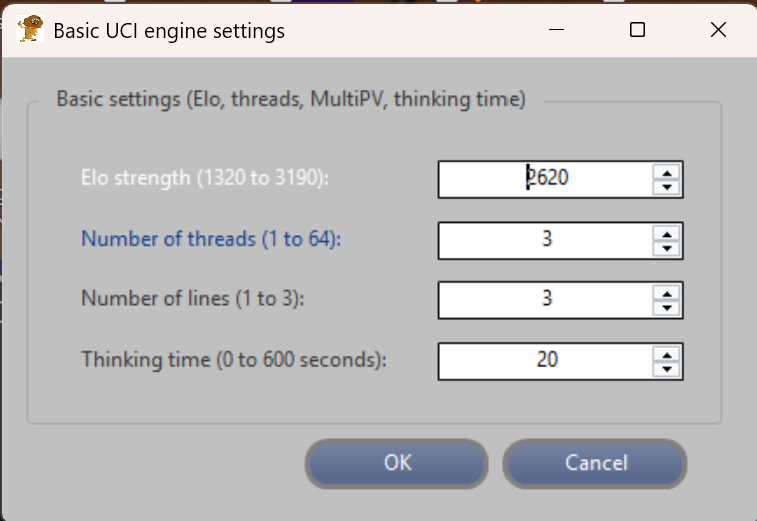
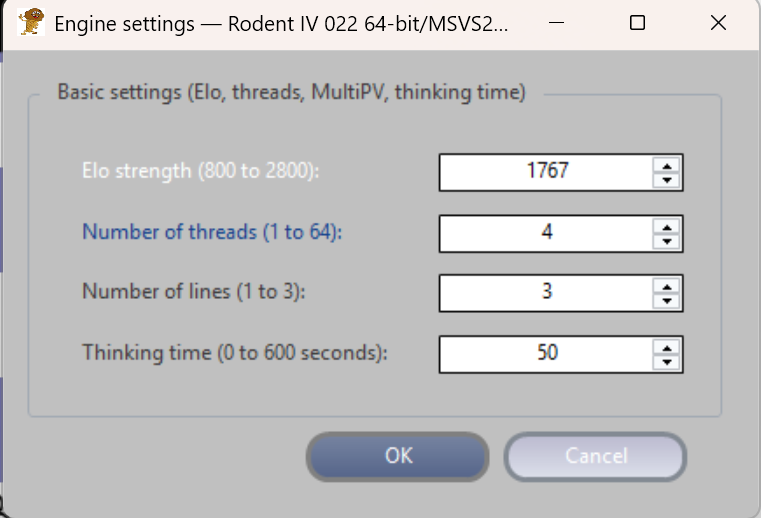
Aide anglaise : captures avec les nouveaux menus (fenêtre principale, Engine settings, View > Language)

diff --git a/Aide/en/index.html b/Aide/en/index.html
@@ -46,7 +46,7 @@
 <!-- ═══════════════════════════════════════════════════════════════ -->
 <h2 id="window">2. The main window</h2>
 <figure>
-    <img src="images/01-fenetre-principale.png" alt="BrunoGUI main window">
+    <img src="images/01-fenetre-principale.webp" alt="BrunoGUI main window">
     <figcaption>The main window, at startup.</figcaption>
 </figure>
 <ul>
